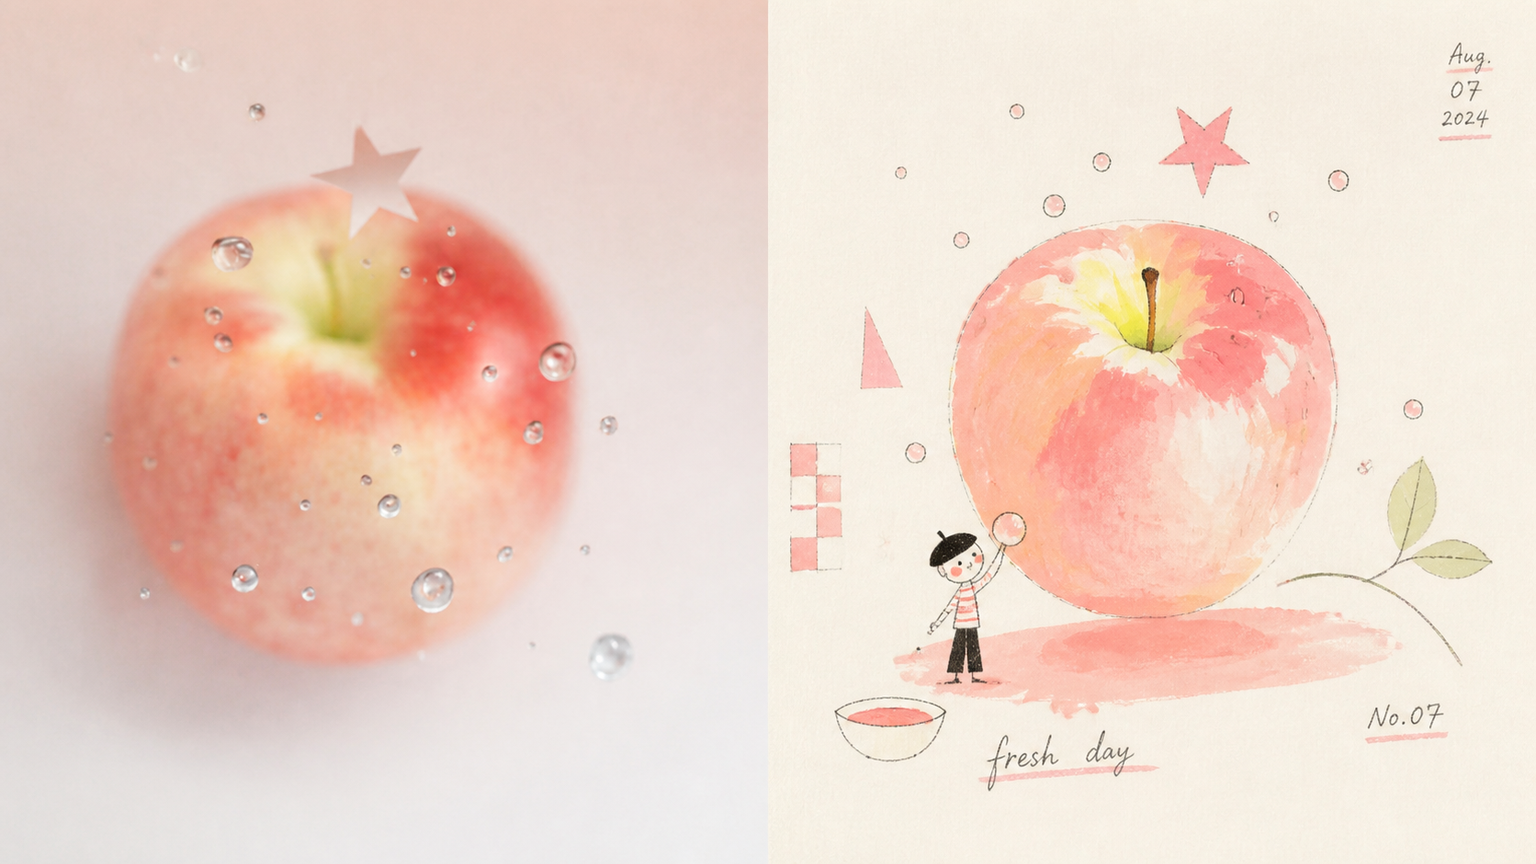
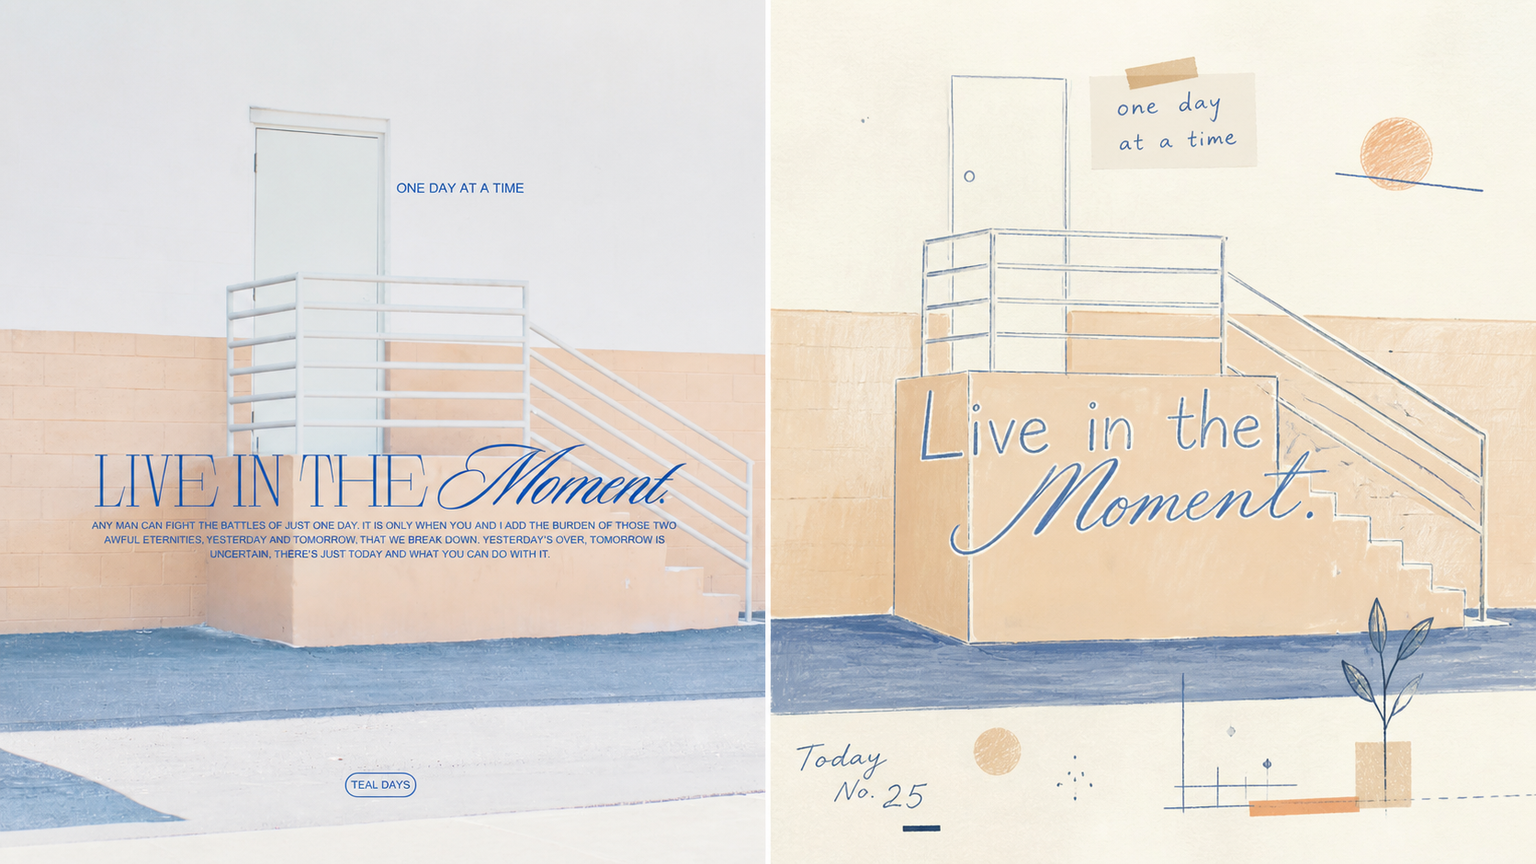
docs: add four 16:9 left-right samples

diff --git a/README.en.md b/README.en.md
@@ -16,6 +16,28 @@
 
 </div>
 
+<!-- xxd-human-intro:start -->
+## The short, honest version
+
+Ever had a photo you loved turn into generic “AI design”? The subject survives, but the relationship, mood, and tiny details that made the photo yours disappear.
+
+That frustration is why I made **Panel 001**. It does not press a template onto your image. It first works out what must not be lost, then translates it into **Translate a photograph into light, naïve, paper-breathing retro editorial illustration**.
+
+### Understand it in 30 seconds
+
+- **Give it:** one photo, a folder of images, or a rough idea.
+- **It does:** preserves recognizable people, objects, actions, and relationships, then redesigns them in this Panel’s own visual language.
+- **You get:** ready-to-use PNGs—comparison layouts, design-only artwork, multiple ratios, or a wallpaper set.
+
+### The easiest way to try it
+
+You do not need to study every option first. Give your Agent an image and say:
+
+> Use XXD Panel 001 on this image and recommend the best layout and size first.
+
+Check the samples below if you want to feel out the aesthetic. If you are ready, jump to [Get started](#get-started). The full modes, sizes, and parameters are tucked into an expandable reference for later.
+<!-- xxd-human-intro:end -->
+
 ## Samples · From X
 
 <table>
@@ -29,6 +51,11 @@
   </tr>
   <tr>
     <td colspan="2"><img src="./assets/examples/sample-05.png" alt="XXD Panel 001 Sample 5"></td>
+  </tr>
+  <tr>
+    <td width="33%"><img src="./assets/examples/sample-06.png" alt="XXD Panel 001 Sample 6"></td>
+    <td width="33%"><img src="./assets/examples/sample-07.png" alt="XXD Panel 001 Sample 7"></td>
+    <td width="33%"><img src="./assets/examples/sample-08.png" alt="XXD Panel 001 Sample 8"></td>
   </tr>
 </table>
 
@@ -86,6 +113,9 @@ If an unrelated photograph could replace the source without materially changing 
 - **Source-derived limited palette:** use high-value, low-to-medium saturation colour grounded in the photograph, with only one small complementary accent.
 - **Warm paper and print imperfection:** show fibre, rough edges, slight show-through, and gentle misregistration as material evidence rather than uniform digital noise.
 - **Restrained retro lettering:** keep copy short, slightly uneven, and ink-absorbed; compose it with the lines and colour fields.
+
+<details>
+<summary><strong>Full capabilities and parameters (open when needed)</strong></summary>
 
 ## The original brief is authoritative
 
@@ -228,6 +258,8 @@ GPT Image 2 is the default first choice. It keeps this project's established wor
 Seedance 5.0 Pro, Nano Banana Pro (Gemini Image Pro), Nano Banana 2 (Gemini Image Flash), or another compatible bitmap model may also be used when it is actually available through the current tools or configured routes and can satisfy source fidelity, whole-canvas ratio, target-language text, and linked-wallpaper multi-reference requirements. An alternative changes only the generation route; it must not change modes, canvas, copy, locale, wallpaper relationship, or the complete-canvas-first strategy.
 
 If no suitable route is available, the Skill asks the user to enable an image-generation tool or provide an API key. User-provided credentials may be used for the current task without being echoed, displayed, logged, or exposed. They are not persisted, and provider, account, billing, or global route configuration is not modified, unless the user explicitly requests that configuration change.
+
+</details>
 
 ## Get started
 

diff --git a/assets/examples/README.md b/assets/examples/README.md
@@ -11,5 +11,8 @@
   - `sample-03.jpg`
   - `sample-04.jpg`
   - `sample-05.png` — generated 16:9 left-right English-copy sample from the Chenxiang poster batch
+  - `sample-06.png` — generated 16:9 left-right English-copy sample from the Chenxiang poster batch
+  - `sample-07.png` — generated 16:9 left-right English-copy sample from the Chenxiang poster batch
+  - `sample-08.png` — generated 16:9 left-right English-copy sample from the Chenxiang poster batch
 
 The repository READMEs display these local copies; the original four samples link back to their X post, while sample-05 is a newly generated batch sample. The samples demonstrate the style's aesthetic motive and range only; they never become generation references, source material, fixed subjects, palettes, composition, copy, or default canvas sizes.
